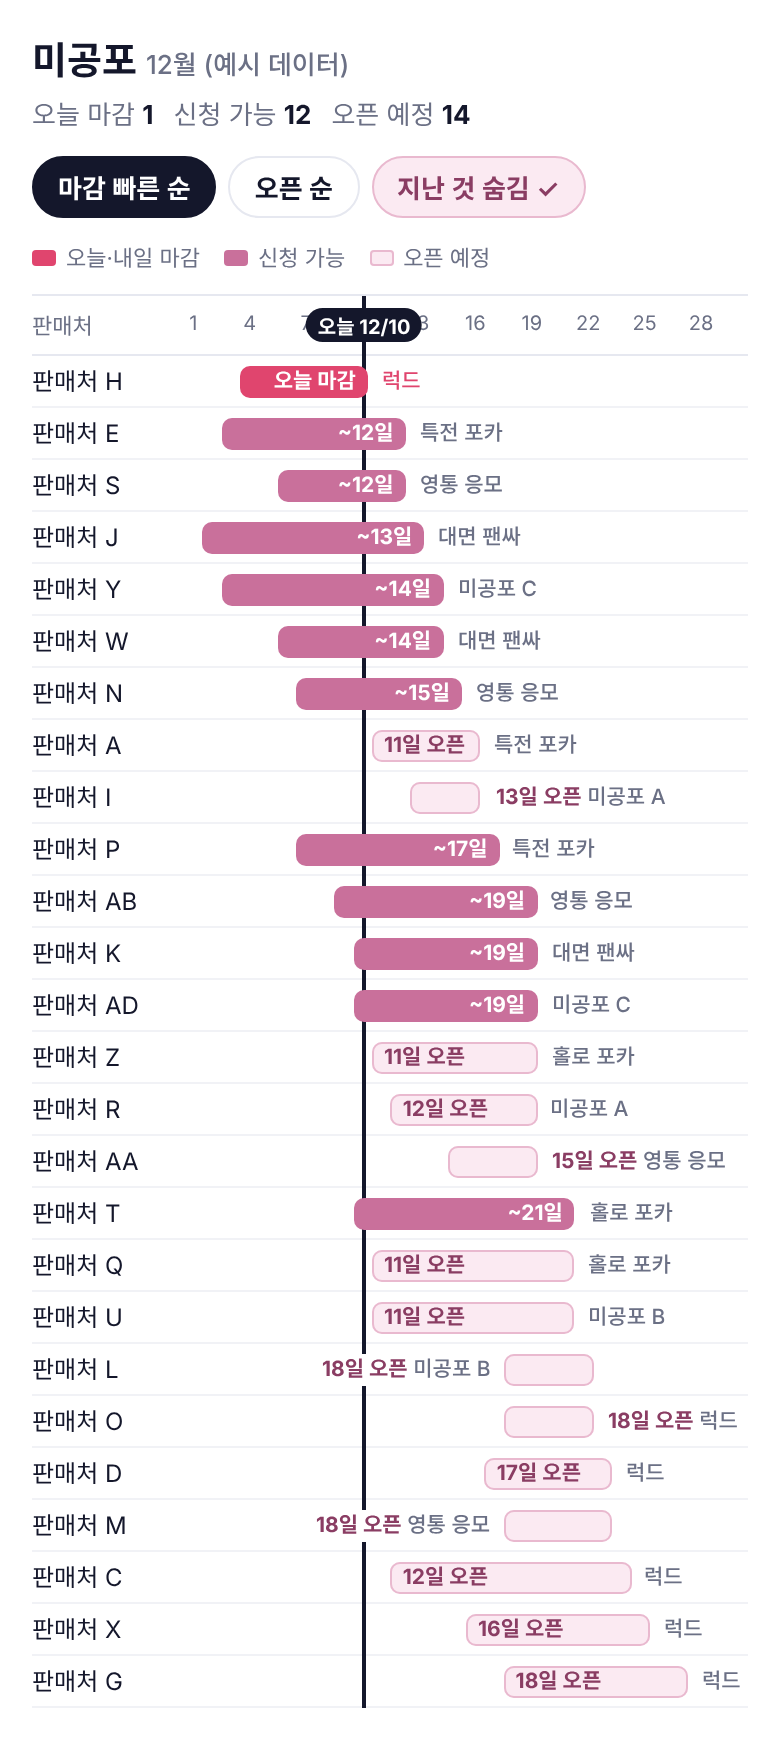
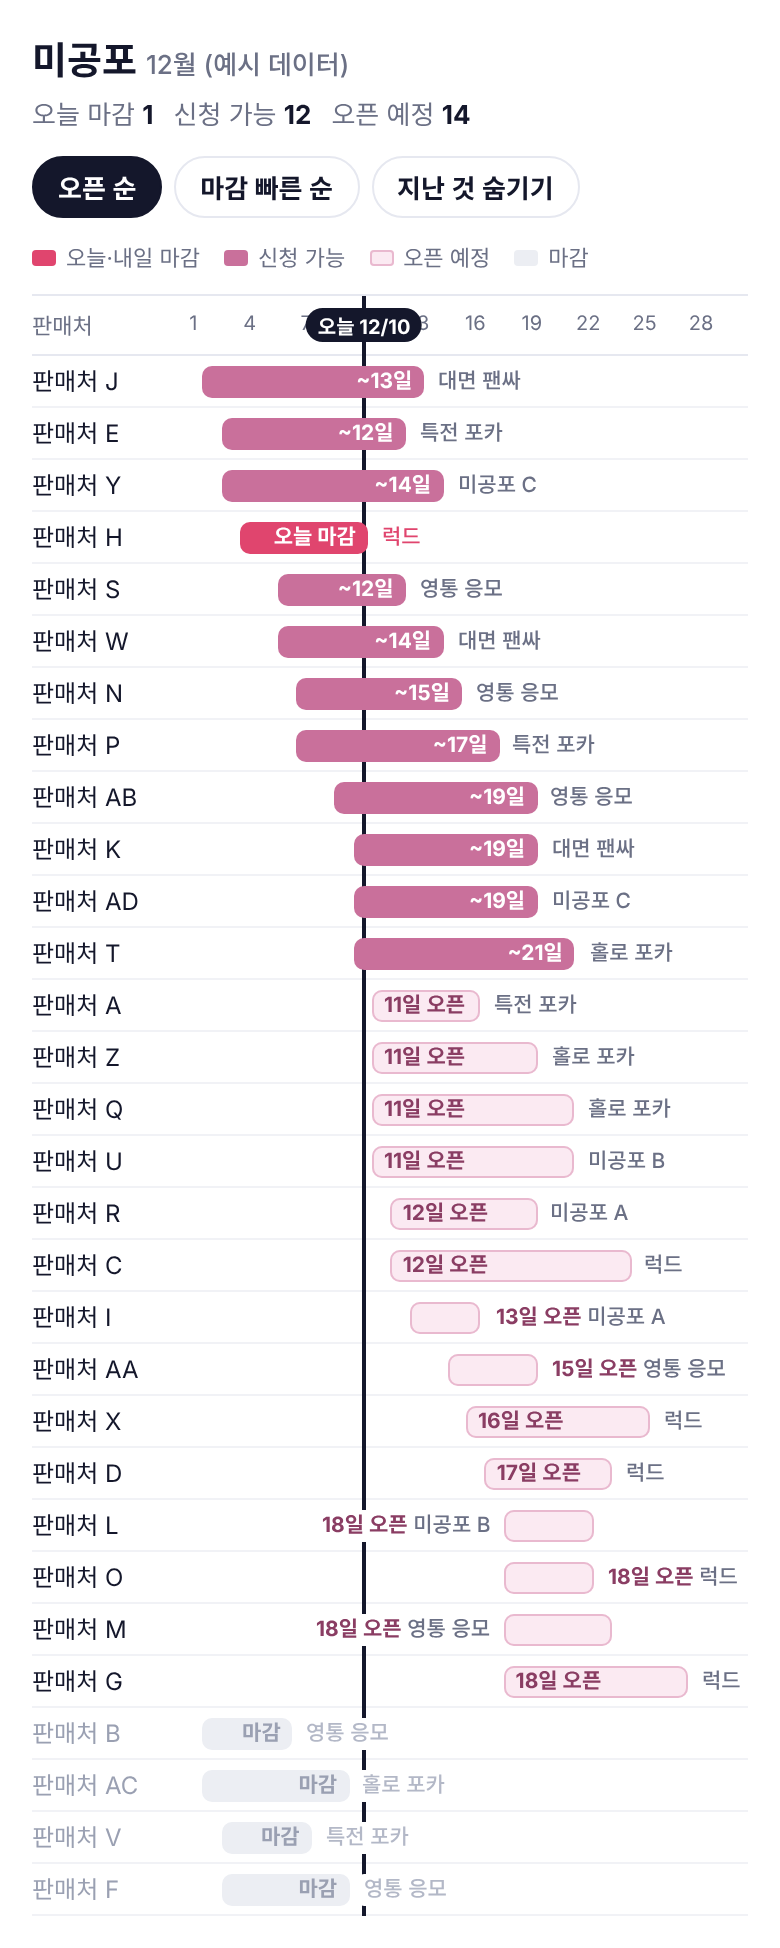
미공포 타임라인 시안: 오픈 순 정렬, 마감은 맨 아래 회색
Claude-Session: https://claude.ai/code/session_01Epb79aCCecSjd6zD5n6eH4

diff --git a/drafts/mipo-timeline.html b/drafts/mipo-timeline.html
@@ -43,6 +43,9 @@ h2{font-size:19px;margin:0 0 4px}
 .bar{display:flex;align-items:center;overflow:hidden}
 .bd{font-size:10.5px;font-weight:700;color:#fff;white-space:nowrap;padding:0 6px;line-height:16px}
 .bar.soon .bd{color:var(--f-fg)}
+.bar.done .bd{color:#9aa0b2;font-weight:600}
+.lb.done{color:#b3b8c7}
+.r.isdone .nm{color:#9aa0b2}
 .bar:not(.soon){justify-content:flex-end}   /* 진행 중: 마감일을 막대 끝에 */
 .lb{background:#fff;z-index:3;padding:0 3px !important;border-radius:3px}
 .today{z-index:2}
@@ -53,8 +56,8 @@ h2{font-size:19px;margin:0 0 4px}
 </style></head><body><div class="wrap">
 <h2>미공포 <span style="font-size:13px;color:var(--muted);font-weight:500">12월 (예시 데이터)</span></h2>
 <div class="sum"><span>오늘 마감 <b id="c1"></b></span><span>신청 가능 <b id="c2"></b></span><span>오픈 예정 <b id="c3"></b></span></div>
-<div class="seg"><span class="on">마감 빠른 순</span><span>오픈 순</span><span class="on" style="background:var(--f-bg);color:var(--f-fg);border-color:#e9b9cf">지난 것 숨김 ✓</span></div>
-<div class="lg"><span><i style="background:#e0456e"></i>오늘·내일 마감</span><span><i style="background:var(--f)"></i>신청 가능</span><span><i style="background:var(--f-bg);box-shadow:inset 0 0 0 1px #e9b9cf"></i>오픈 예정</span></div>
+<div class="seg"><span class="on">오픈 순</span><span>마감 빠른 순</span><span>지난 것 숨기기</span></div>
+<div class="lg"><span><i style="background:#e0456e"></i>오늘·내일 마감</span><span><i style="background:var(--f)"></i>신청 가능</span><span><i style="background:var(--f-bg);box-shadow:inset 0 0 0 1px #e9b9cf"></i>오픈 예정</span><span><i style="background:#eceef3"></i>마감</span></div>
 <div class="tl" id="tl"></div></div>
 <script>
 var D=[{"name": "판매처 A", "type": "특전 포카", "s": 11, "e": 16}, {"name": "판매처 B", "type": "영통 응모", "s": 2, "e": 6}, {"name": "판매처 C", "type": "럭키드로우", "s": 12, "e": 24}, {"name": "판매처 D", "type": "럭키드로우", "s": 17, "e": 23}, {"name": "판매처 E", "type": "특전 포카", "s": 3, "e": 12}, {"name": "판매처 F", "type": "영통 응모", "s": 3, "e": 9}, {"name": "판매처 G", "type": "럭키드로우", "s": 18, "e": 27}, {"name": "판매처 H", "type": "럭키드로우", "s": 4, "e": 10}, {"name": "판매처 I", "type": "미공포 A", "s": 13, "e": 16}, {"name": "판매처 J", "type": "대면 팬싸", "s": 2, "e": 13}, {"name": "판매처 K", "type": "대면 팬싸", "s": 10, "e": 19}, {"name": "판매처 L", "type": "미공포 B", "s": 18, "e": 22}, {"name": "판매처 M", "type": "영통 응모", "s": 18, "e": 23}, {"name": "판매처 N", "type": "영통 응모", "s": 7, "e": 15}, {"name": "판매처 O", "type": "럭키드로우", "s": 18, "e": 22}, {"name": "판매처 P", "type": "특전 포카", "s": 7, "e": 17}, {"name": "판매처 Q", "type": "홀로그램 포카", "s": 11, "e": 21}, {"name": "판매처 R", "type": "미공포 A", "s": 12, "e": 19}, {"name": "판매처 S", "type": "영통 응모", "s": 6, "e": 12}, {"name": "판매처 T", "type": "홀로그램 포카", "s": 10, "e": 21}, {"name": "판매처 U", "type": "미공포 B", "s": 11, "e": 21}, {"name": "판매처 V", "type": "특전 포카", "s": 3, "e": 7}, {"name": "판매처 W", "type": "대면 팬싸", "s": 6, "e": 14}, {"name": "판매처 X", "type": "럭키드로우", "s": 16, "e": 25}, {"name": "판매처 Y", "type": "미공포 C", "s": 3, "e": 14}, {"name": "판매처 Z", "type": "홀로그램 포카", "s": 11, "e": 19}, {"name": "판매처 AA", "type": "영통 응모", "s": 15, "e": 19}, {"name": "판매처 AB", "type": "영통 응모", "s": 9, "e": 19}, {"name": "판매처 AC", "type": "홀로그램 포카", "s": 2, "e": 9}, {"name": "판매처 AD", "type": "미공포 C", "s": 10, "e": 19}], TODAY=10, N=30;
@@ -63,15 +66,14 @@ var tl=document.getElementById('tl');
 var hd='<div class="hd"><div style="font-size:11px;color:var(--muted)">판매처</div><div class="days">';
 for(var d=1;d<=N;d+=3) hd+='<i style="left:'+((d-0.5)/N*100)+'%">'+d+'</i>';
 hd+='</div></div>'; tl.innerHTML=hd;
-D.sort(function(a,b){var ad=a.e<TODAY,bd=b.e<TODAY; if(ad!==bd) return ad?1:-1; return a.e-b.e||a.s-b.s;});
+D.sort(function(a,b){var ad=a.e<TODAY,bd=b.e<TODAY; if(ad!==bd) return ad?1:-1; return a.s-b.s||a.e-b.e;});   // 오픈 순, 마감은 맨 아래
 var c1=0,c2=0,c3=0;
 D.forEach(function(r){
  var cls = r.e<TODAY?'done':(r.s>TODAY?'soon':(r.e-TODAY<=1?'last':''));
  if(r.e===TODAY)c1++; if(r.s<=TODAY&&r.e>=TODAY)c2++; if(r.s>TODAY)c3++;
- if(cls==='done') return;   // 지난 것 숨기기 (기본)
  var T=r.type.replace('럭키드로우','럭드').replace('홀로그램 포카','홀로 포카');
- var dt = cls==='soon' ? r.s+'일 오픈' : (r.e===TODAY ? '오늘 마감' : r.e===TODAY+1 ? '내일 마감' : '~'+r.e+'일');
- var row=document.createElement('div');row.className='r';
+ var dt = cls==='done' ? '마감' : cls==='soon' ? r.s+'일 오픈' : (r.e===TODAY ? '오늘 마감' : r.e===TODAY+1 ? '내일 마감' : '~'+r.e+'일');
+ var row=document.createElement('div');row.className='r'+(cls==='done'?' isdone':'');
  row.innerHTML='<div class="nm">'+r.name+'</div><div class="track"><span class="bar '+cls+'" style="left:'+x(r.s)+';width:calc('+((r.e-r.s+1)/N*100)+'% - 2px)"><b class="bd">'+dt+'</b></span><span class="lb '+cls+'"></span></div>';
  tl.appendChild(row);
  var bar=row.querySelector('.bar'), bd=row.querySelector('.bd'), lb=row.querySelector('.lb'), tr=row.querySelector('.track');

diff --git a/drafts/README.md b/drafts/README.md
@@ -2,7 +2,7 @@
 
 ## mipo-timeline.html — 컴백 시즌 미공포 타임라인 (2026-11-27)
 - 판매처 한 줄 = 신청 가능 기간 막대, 세로선 = 오늘. 가짜 데이터 30곳.
-- 정해진 것: 왼쪽은 판매처 이름만, 줄 높이 26px, 마감 빠른 순 기본, 지난 것 숨김 기본.
+- 정해진 것: 왼쪽은 판매처 이름만, 줄 높이 26px, 오픈 순 정렬 기본(마감 빠른 순은 버튼), 마감된 곳은 회색으로 맨 아래.
 - 날짜는 막대 안: 진행 중은 막대 끝에 `~14일`, 시작 전은 `18일 오픈`, 오늘·내일은 `오늘 마감`. 막대가 짧으면 날짜를 막대 밖으로.
 - 미공포 종류(럭드, 영통 응모 등)는 막대 뒤 회색 글자. 오른쪽 공간이 없으면 막대 앞에.
 - 아직 정할 것: 같은 업체 여러 종류일 때 줄 나누기/묶기, 마감 알림 여부, 만드는 시기(컴백 확정 후).
